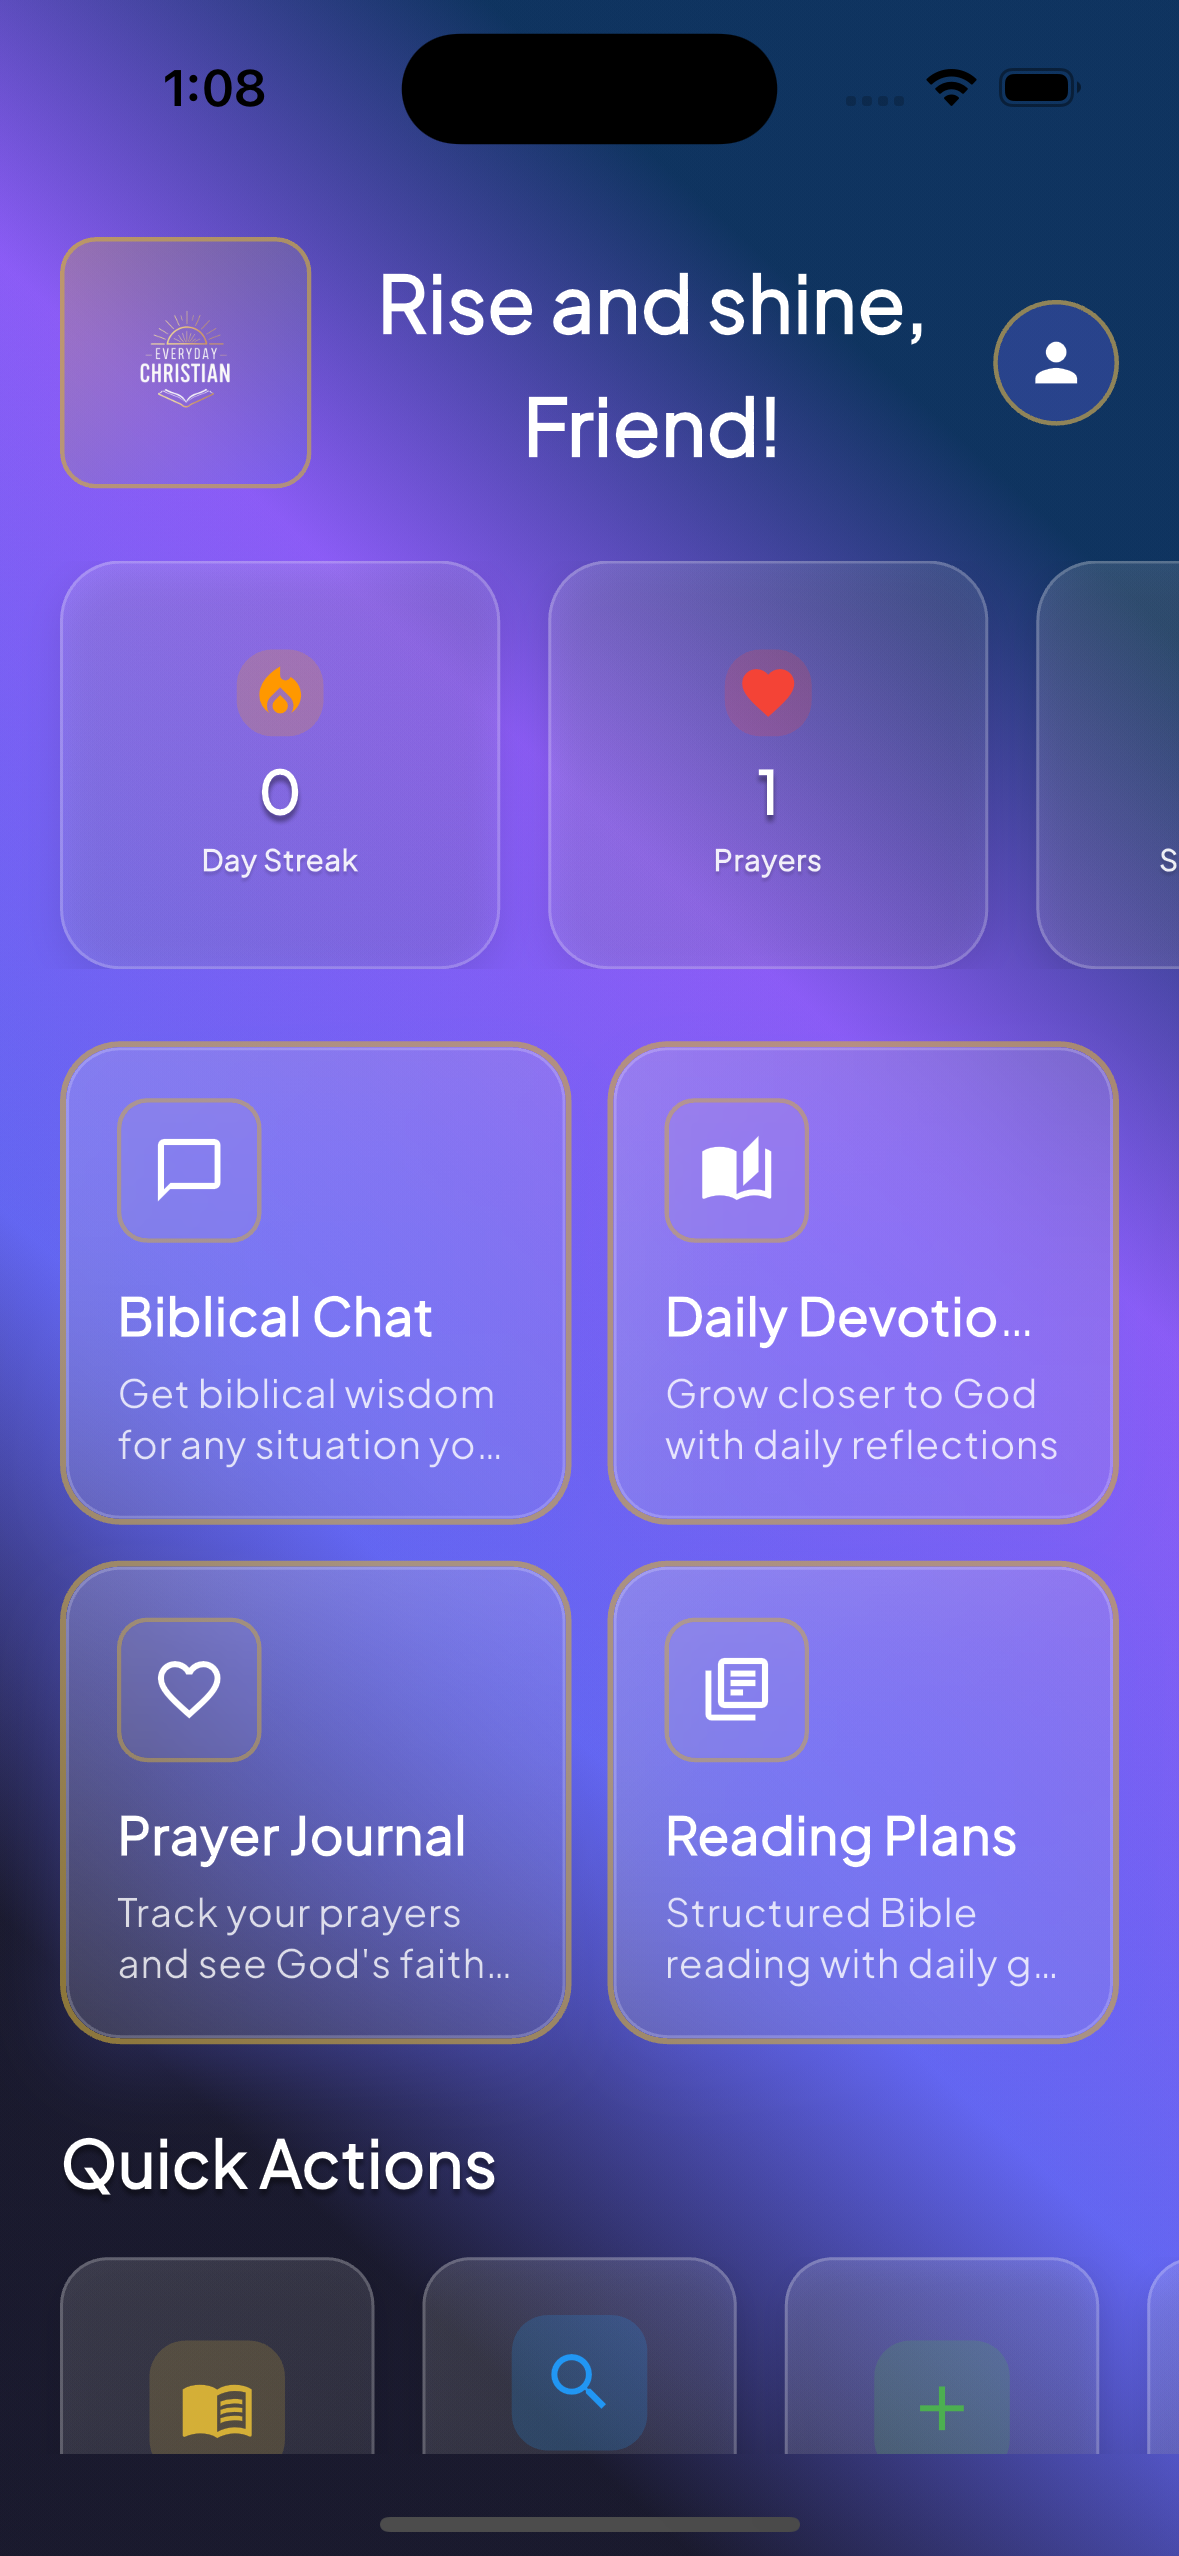
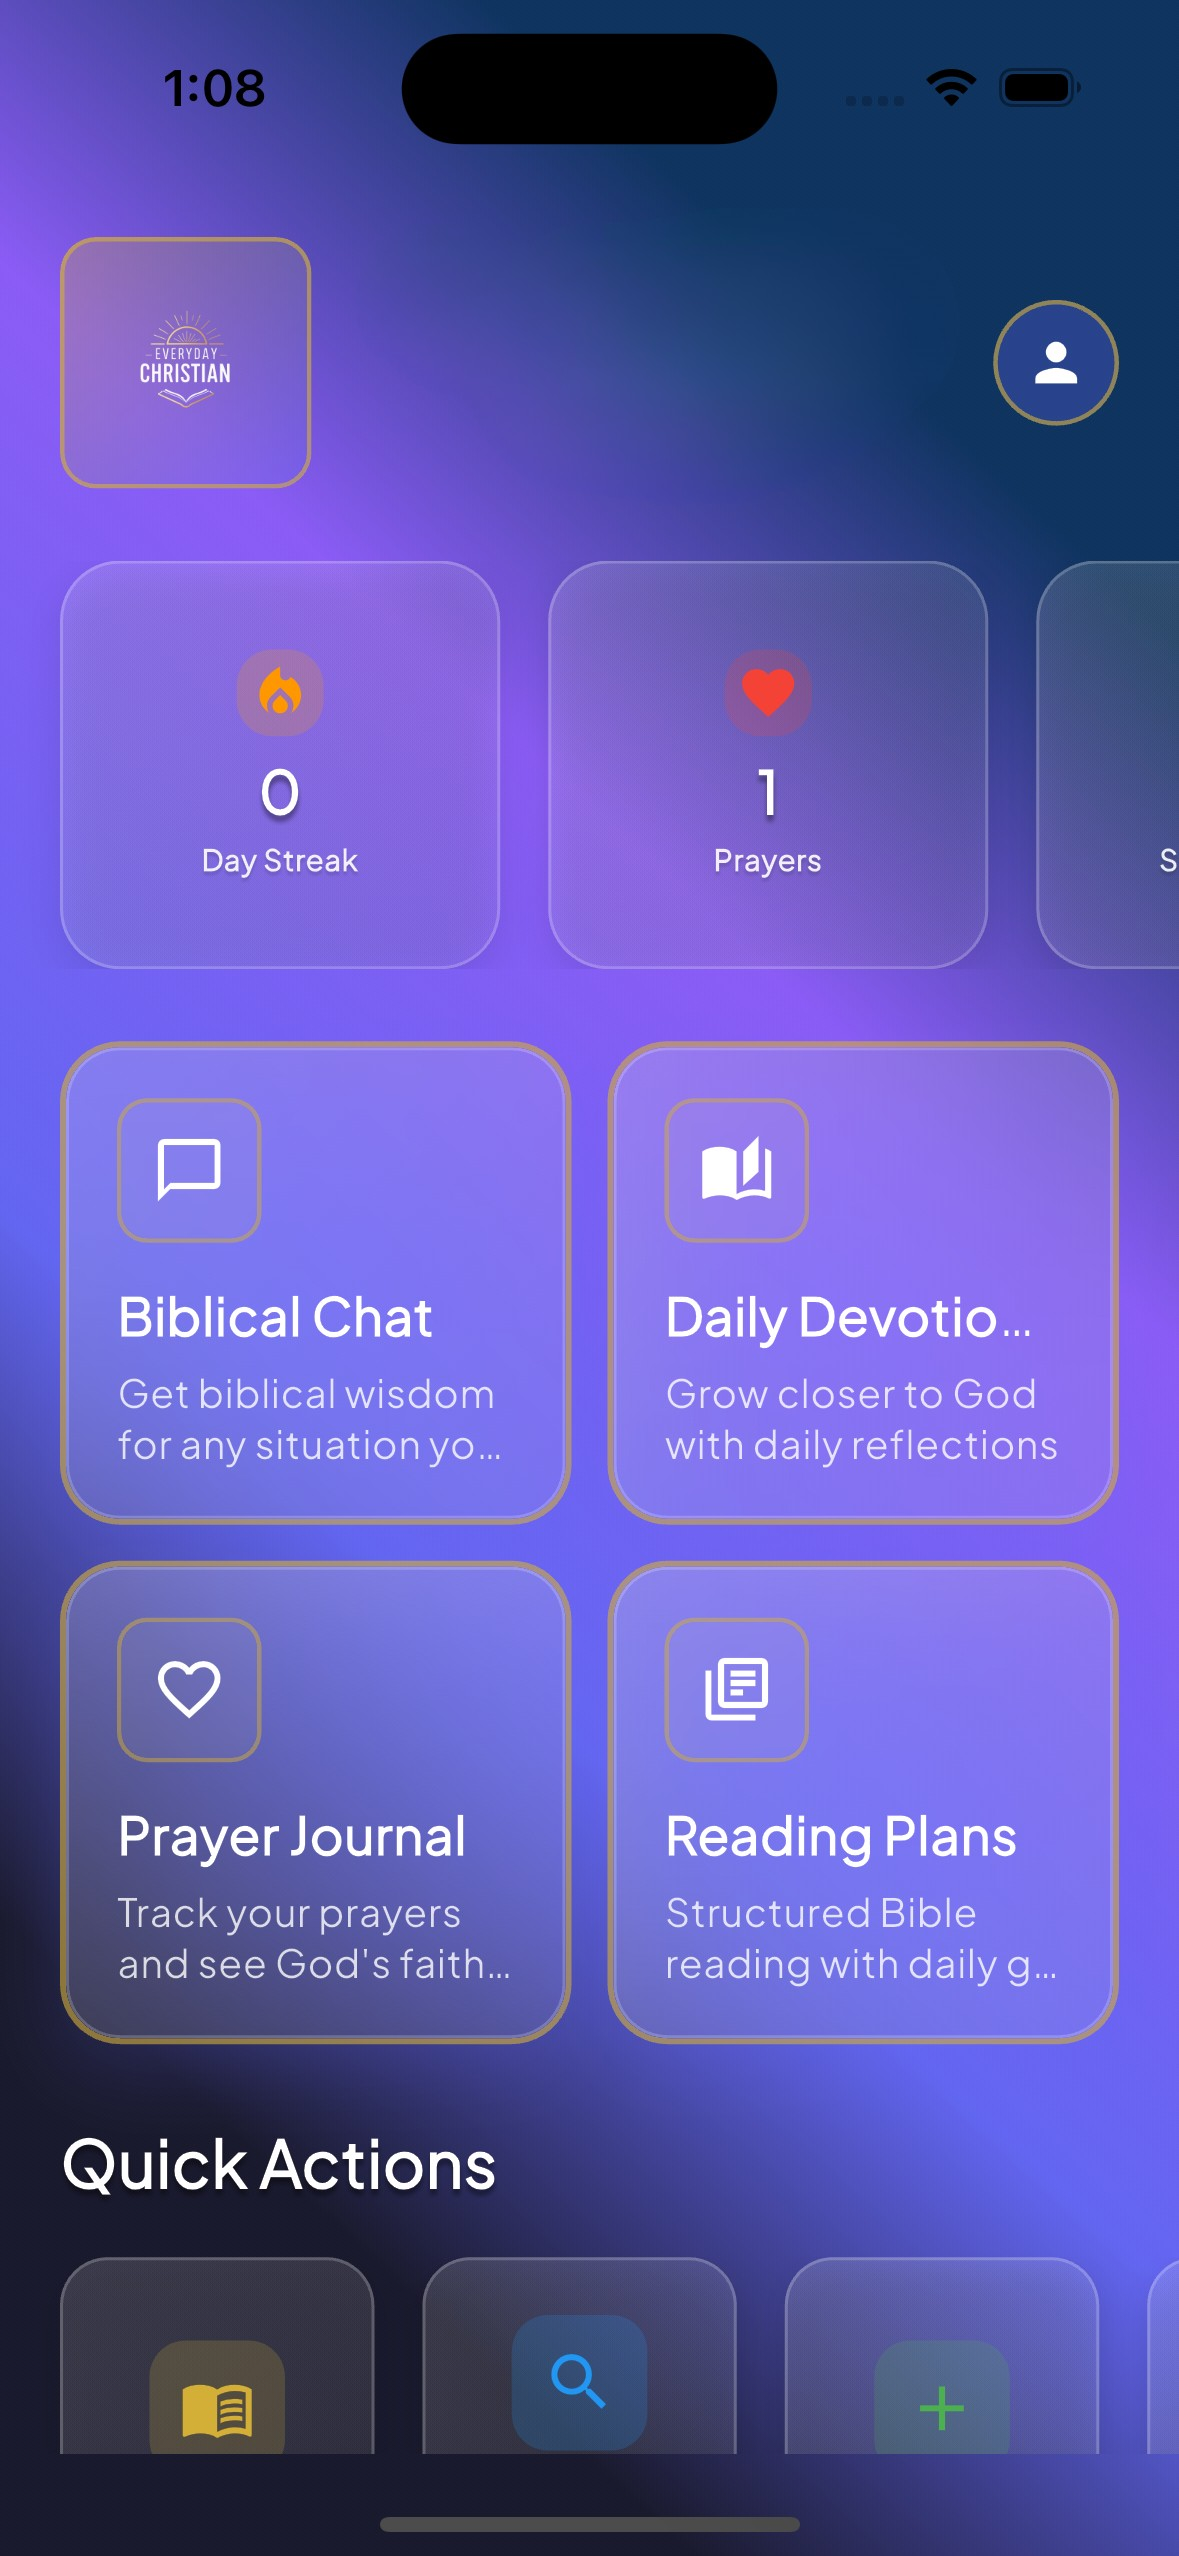
Replace hero phone mockup with edited home screen
- Update hero section to display edited home screen without greeting text
- Replace 01_home_screen.png with version that has "Rise and shine, Friend!" removed
- Update alt text to reflect home screen content
- Maintain professional appearance without duplicate greeting

🤖 Generated with [Claude Code](https://claude.com/claude-code)

diff --git a/src/pages/LandingPage.tsx b/src/pages/LandingPage.tsx
@@ -78,8 +78,8 @@ export default function LandingPage() {
             {/* Right: Phone Mockup */}
             <div className={`relative ${isVisible ? 'animate-fadeInUp' : 'opacity-0'}`} style={{ animationDelay: '0.2s' }}>
               <PhoneMockup
-                image="/images/app/04_bible_browser.png"
-                alt="Everyday Christian App - Bible Browser"
+                image="/images/app/01_home_screen.png"
+                alt="Everyday Christian App - Home Screen"
               />
             </div>
           </div>
